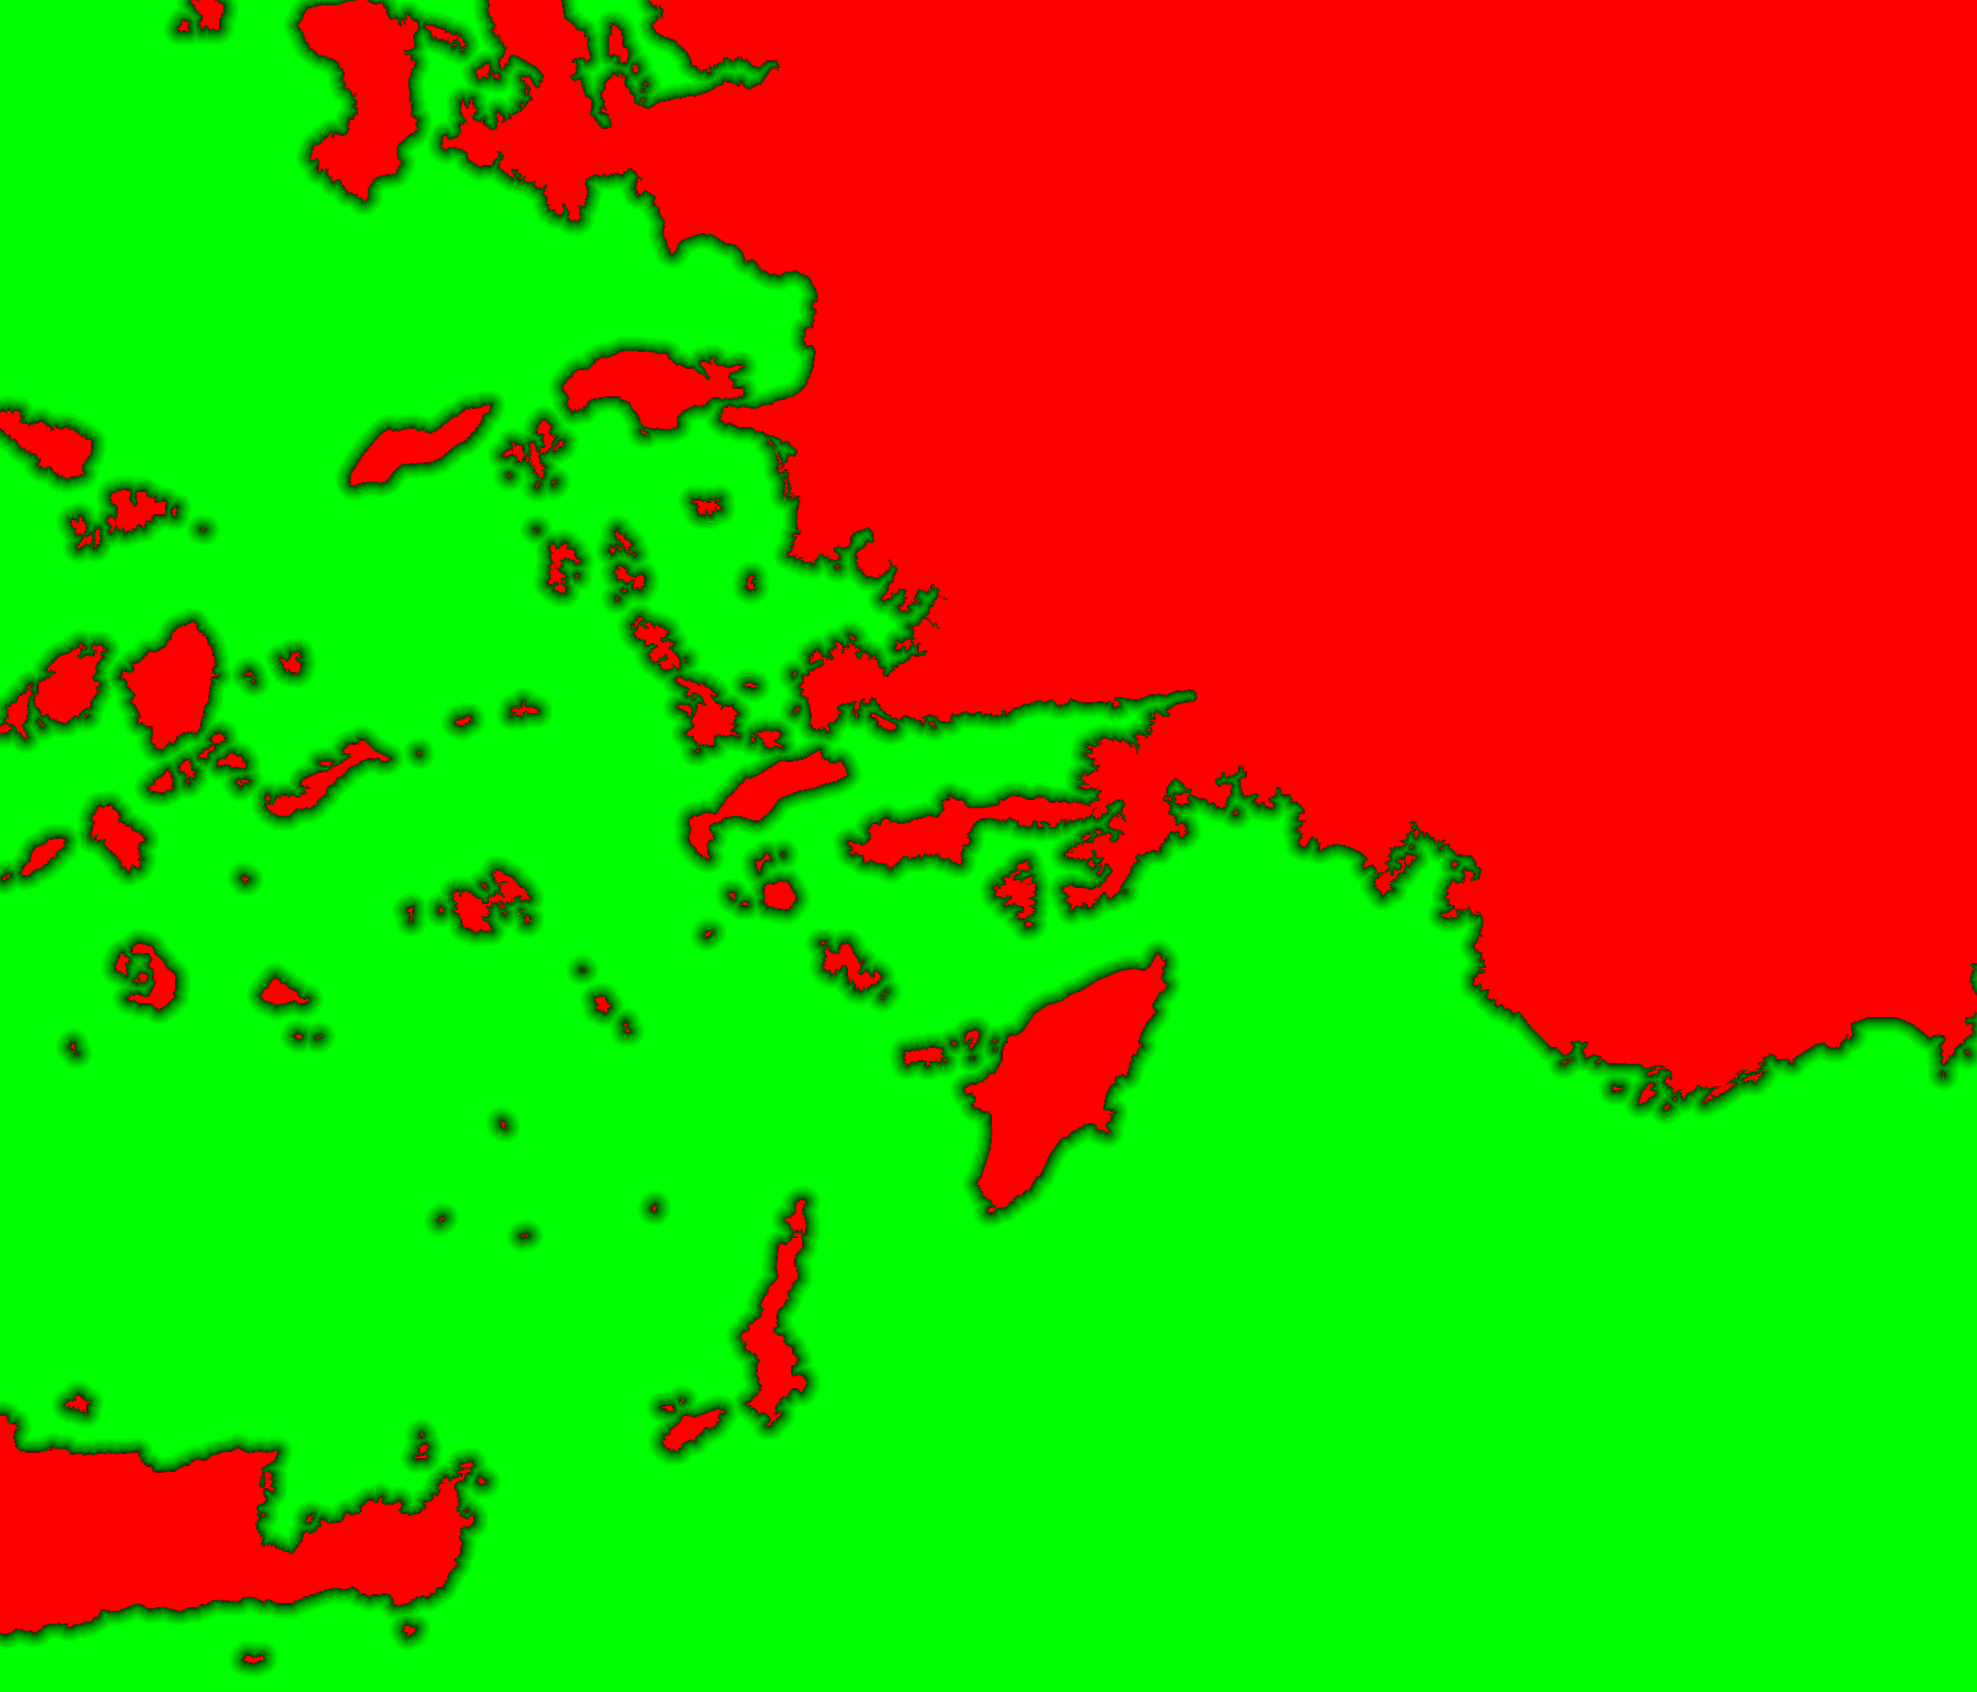
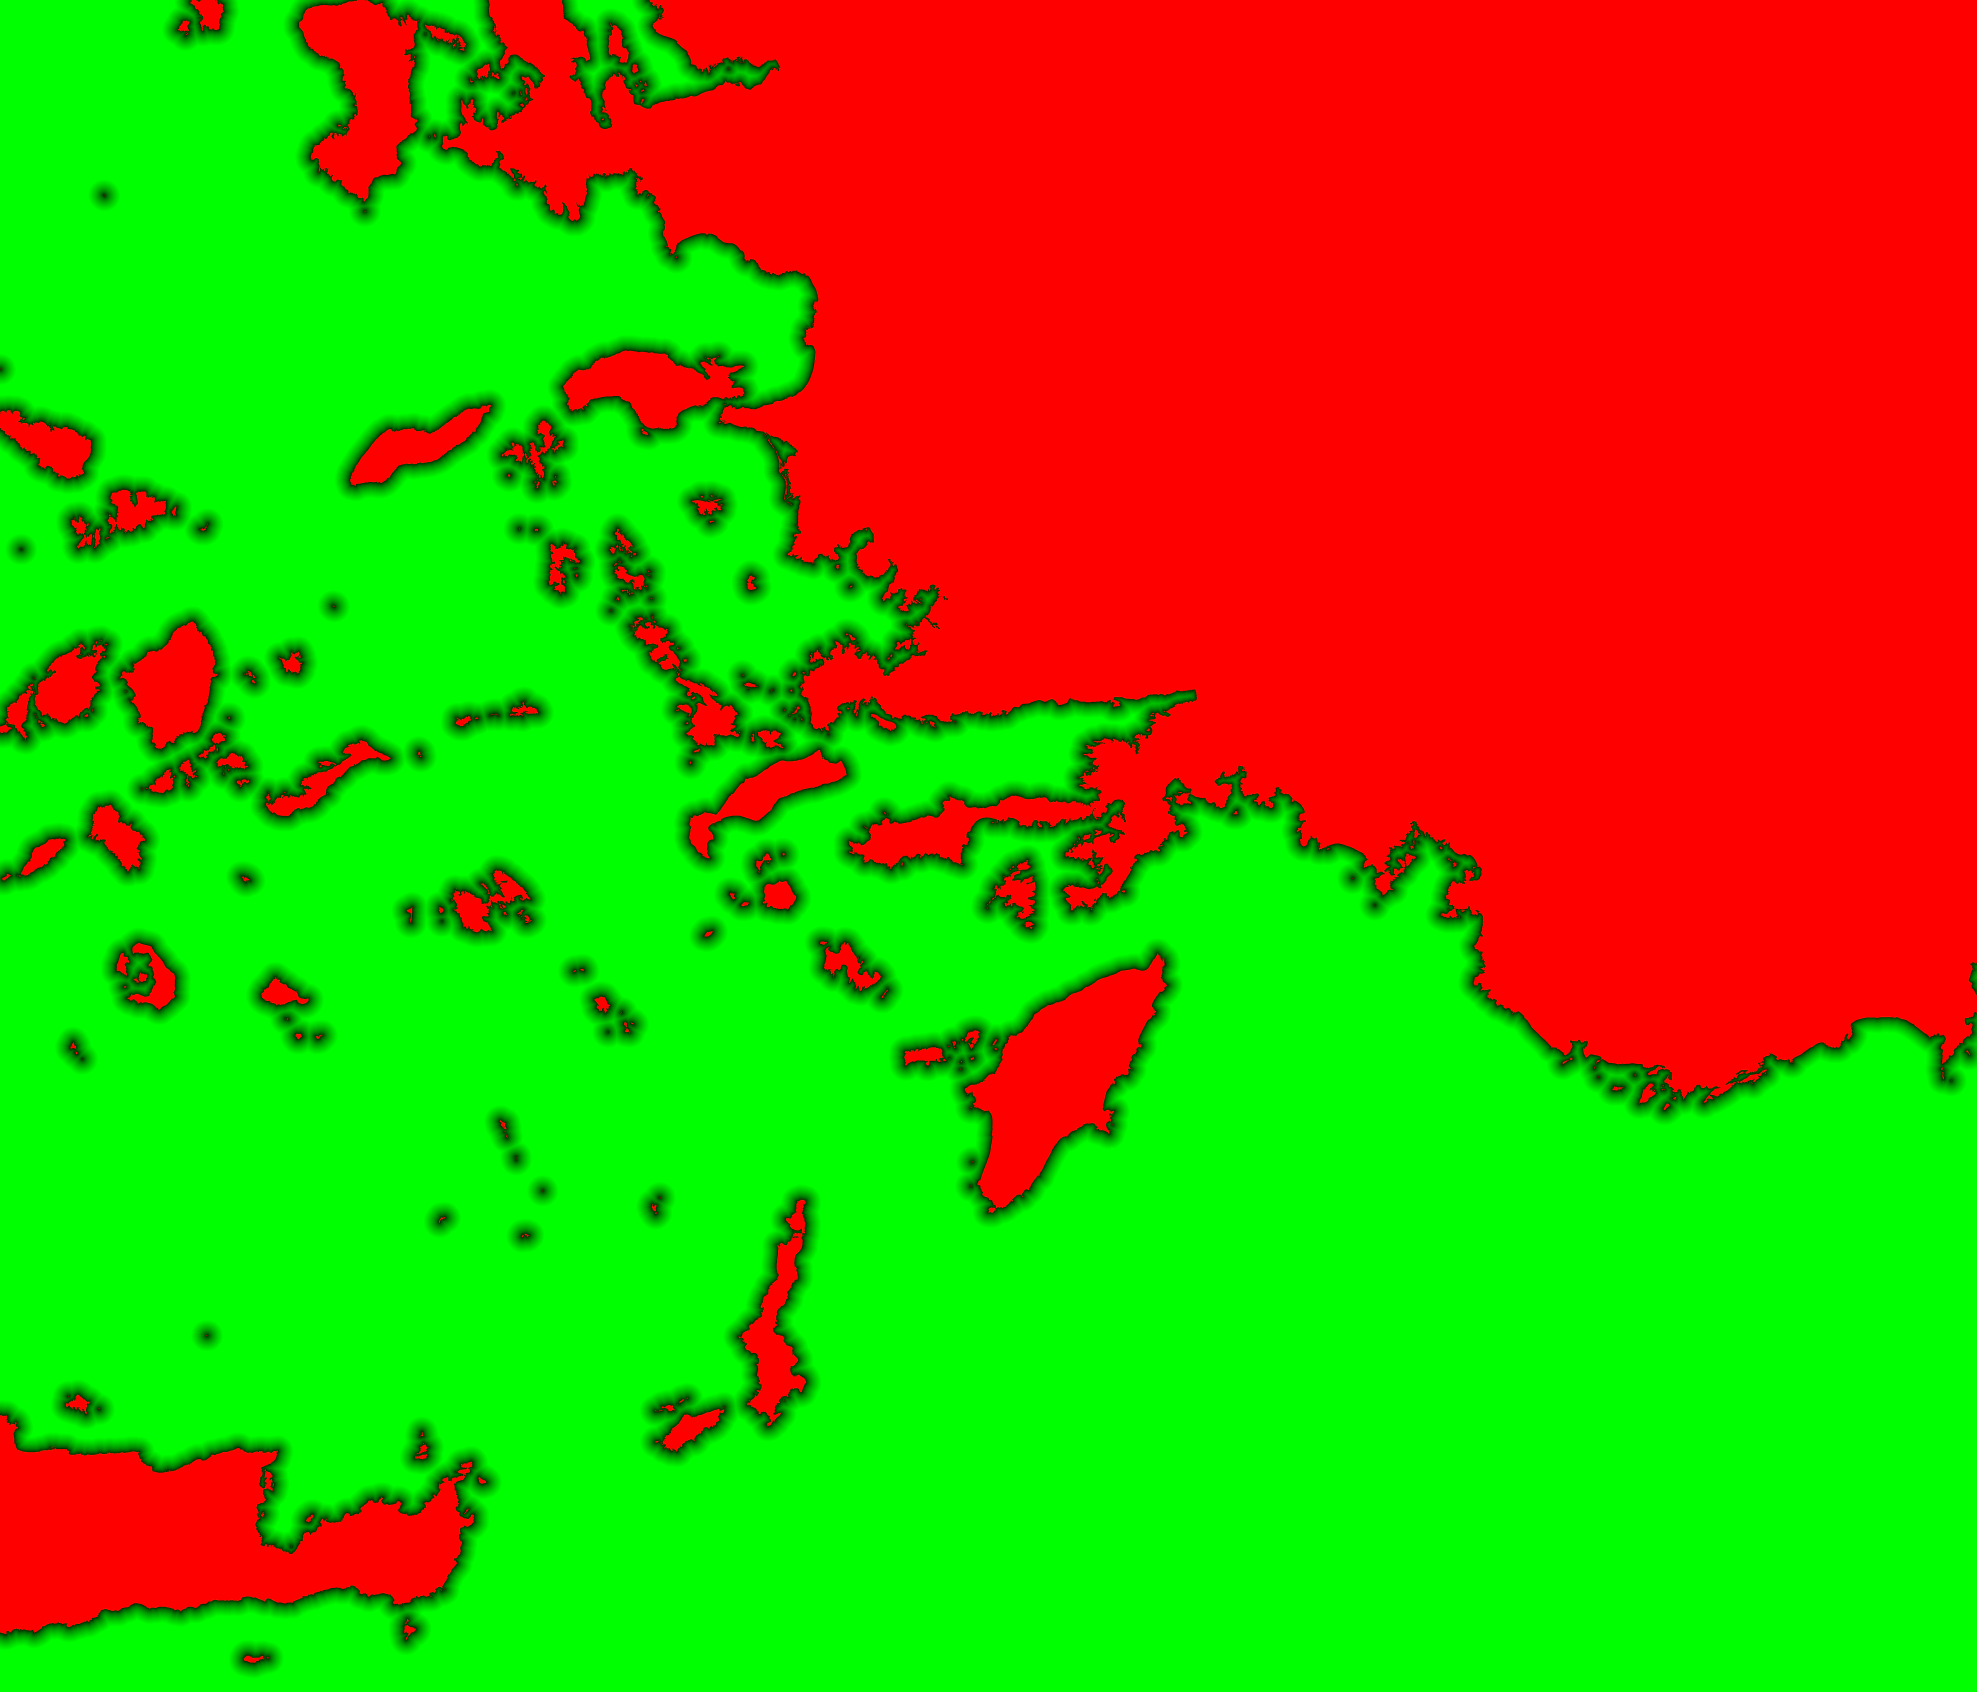
Mundi II: the eastern Aegean's coast at 120 m from OSM's full land polygons
The Aegean's land and sea are now decided by OSM's complete land polygons (not the simplified
ones), drawn anti-aliased at about 120 m into a 4096-wide mask, the widest texture every phone
takes (140 KB). The 250 m texture with the distance to land for the shelf is rebuilt from it.

Claude-Session: https://claude.ai/code/session_015y9JAWLouqFfDLSFkX3oNa

diff --git a/public/crusaders/welt2/index.html b/public/crusaders/welt2/index.html
@@ -209,10 +209,11 @@ function hRegion(x, z) {
 }
 const regLand = (x, z) => { const i = clamp(Math.floor(((x - RX0) / (RX1 - RX0)) * RMW), 0, RMW - 1), j = clamp(Math.floor(((z - RZ0) / (RZ1 - RZ0)) * RMH), 0, RMH - 1); return RMK[j * RMW + i] > 127; };
 async function loadRegion() {
-  const [hi, mi] = await Promise.all([loadImage("data/ost-hoehe.png"), loadImage("data/ost-kueste.png")]);
+  // ost-land: the coast at 120 m from OSM's full land polygons, the contract here; ost-kueste: at 250 m with the distance to land
+  const [hi, mi, li] = await Promise.all([loadImage("data/ost-hoehe.png"), loadImage("data/ost-kueste.png"), loadImage("data/ost-land.png")]);
   const read = (img) => { const c = document.createElement("canvas"); c.width = img.width; c.height = img.height; const x = c.getContext("2d"); x.drawImage(img, 0, 0); return x.getImageData(0, 0, img.width, img.height).data; };
   const hd = read(hi); RHW = hi.width; RHH = hi.height; RHM = new Float32Array(RHW * RHH); for (let i = 0; i < RHM.length; i++) RHM[i] = greyH(hd[i * 4]);
-  const md = read(mi); RMW = mi.width; RMH = mi.height; RMK = new Uint8Array(RMW * RMH); for (let i = 0; i < RMK.length; i++) RMK[i] = md[i * 4];
+  const md = read(li); RMW = li.width; RMH = li.height; RMK = new Uint8Array(RMW * RMH); for (let i = 0; i < RMK.length; i++) RMK[i] = md[i * 4];
   // normals for the shade, raised a little more than at Rhodes
   const [nc, nx, ni] = cv2d(RHW, RHH), dx = ((RX1 - RX0) / RHW) * 1000, dz = ((RZ1 - RZ0) / RHH) * 1000;
   for (let j = 0; j < RHH; j++) for (let i = 0; i < RHW; i++) {
@@ -222,7 +223,7 @@ async function loadRegion() {
   }
   nx.putImageData(ni, 0, 0);
   const tex = (img) => { const t = new THREE.Texture(img); t.needsUpdate = true; t.generateMipmaps = false; t.minFilter = t.magFilter = THREE.LinearFilter; return t; };
-  U.uRegH.value = tex(hi); U.uRegM.value = tex(mi); U.uRegN.value = ctex(nc); U.uRBox.value.set(RX0, RZ0, RX1 - RX0, RZ1 - RZ0);
+  U.uRegH.value = tex(hi); U.uRegM.value = tex(mi); U.uRegL.value = tex(li); U.uRegN.value = ctex(nc); U.uRBox.value.set(RX0, RZ0, RX1 - RX0, RZ1 - RZ0);
   const sat = await new THREE.TextureLoader().loadAsync("data/ost.jpg"); sat.anisotropy = 4; U.uRegSat.value = sat;
   regionMesh(); U.uRegOn.value = 1;
 }
@@ -325,7 +326,7 @@ const COMMON = `
   vec2 worldUv(vec2 p) { float lon = ${LON0.toFixed(4)} + p.x / ${(KM * KX).toFixed(4)}, lat = ${LAT0.toFixed(4)} - p.y / ${KM.toFixed(4)}; return vec2((lon + 180.0) / 360.0, (lat + 90.0) / 180.0); }
   // three levels of detail: Rhodes (0), the eastern Aegean (1), the world (2). At their seams they are mixed pixel by
   // pixel: over the last 10 km inside the Rhodes box, over the last 25 km inside the Aegean one
-  uniform float uWorldOn, uRegOn; uniform vec4 uRBox; uniform sampler2D uRegH, uRegM, uRegN, uRegSat;
+  uniform float uWorldOn, uRegOn; uniform vec4 uRBox; uniform sampler2D uRegH, uRegM, uRegL, uRegN, uRegSat;
   float edgeIn(vec2 p, vec4 b) { return min(min(p.x - b.x, b.x + b.z - p.x), min(p.y - b.y, b.y + b.w - p.y)); }
   float lod(vec2 p) {
     float inR = edgeIn(p, uBox);
@@ -502,7 +503,7 @@ const U = {
   uSun: { value: new THREE.Vector3(0, 1, 0) }, uSunCol: { value: new THREE.Color(1, 1, 1) }, uZen: { value: new THREE.Color() }, uHor: { value: new THREE.Color() }, uCam: { value: new THREE.Vector3() },
   uTime: { value: 0 }, uHaze: { value: 0.006 }, uCloudCov: { value: 0.38 }, uCloudH: { value: 4.8 }, uClouds: { value: 1 }, uSea: { value: 1 },
   uMask: { value: null }, uRelief: { value: null }, uNormal: { value: null }, uCloud: { value: null }, uDist: { value: null }, uSat: { value: null }, uGeo: { value: null }, uShadow: { value: null },
-  uLife: { value: 1 }, uWEx: { value: 1 }, uWorldOn: { value: 1 }, uRegOn: { value: 0 }, uRBox: { value: new THREE.Vector4() }, uRegH: { value: null }, uRegM: { value: null }, uRegN: { value: null }, uRegSat: { value: null }, uWorld: { value: null }, uWorldN: { value: null }, uWorldSat: { value: null }, uVeg: { value: 0 }, uHeat: { value: 0 }, uGrow: { value: 1 }, uLevel: { value: 0 }, uShadowK: { value: 1 }, uNear: { value: 0.1 },
+  uLife: { value: 1 }, uWEx: { value: 1 }, uWorldOn: { value: 1 }, uRegOn: { value: 0 }, uRBox: { value: new THREE.Vector4() }, uRegH: { value: null }, uRegM: { value: null }, uRegL: { value: null }, uRegN: { value: null }, uRegSat: { value: null }, uWorld: { value: null }, uWorldN: { value: null }, uWorldSat: { value: null }, uVeg: { value: 0 }, uHeat: { value: 0 }, uGrow: { value: 1 }, uLevel: { value: 0 }, uShadowK: { value: 1 }, uNear: { value: 0.1 },
   uBox: { value: new THREE.Vector4(W0, D0, WX, DZ) }, uCloudOff: { value: new THREE.Vector2() },
 };
 
@@ -667,7 +668,7 @@ function regionMesh() {
       vec2 ru = regUv(vP.xz); vec4 rm = texture2D(uRegM, ru); float h = regH(vP.xz);
       vec2 nn = texture2D(uRegN, ru).rg * 2.0 - 1.0; vec3 N = normalize(vec3(nn.x, sqrt(max(0.0, 1.0 - dot(nn, nn))), nn.y));
       float diff = max(dot(N, uSun), 0.0), sh = cloudShadow(vP); vec3 col;
-      if (rm.r > 0.5) {
+      if (texture2D(uRegL, ru).r > 0.5) {
         vec3 s0 = texture2D(uRegSat, ru).rgb, sat = pow(s0, vec3(2.2)) * 1.25;
         vec3 life = sat * (uSunCol * (0.3 + 0.9 * diff) * sh + uZen * 0.25);
         float lum = dot(s0, vec3(0.3, 0.55, 0.15));
@@ -765,7 +766,7 @@ function seaSurface() {
         if (inside > 0.5) { sd = shoreAt(uv); d = depthAt(uv, sd, vP.xz); }
         else if (lv < 1.5) {
           // the eastern Aegean: its OSM coast decides, a shelf grows from it, shoals as at Rhodes
-          vec4 rm = texture2D(uRegM, regUv(vP.xz)); if (rm.r > 0.5) discard;
+          vec4 rm = texture2D(uRegM, regUv(vP.xz)); if (texture2D(uRegL, regUv(vP.xz)).r > 0.5) discard;
           float hr = regH(vP.xz), dem = hr < -3.0 ? -hr : 4500.0; sd = rm.g * rm.g * 4000.0;
           // how steeply the land rises behind this shore: the highest ground within a kilometre and a half
           float e = 1.5, hl = max(max(regH(vP.xz + vec2(e, 0.0)), regH(vP.xz - vec2(e, 0.0))), max(regH(vP.xz + vec2(0.0, e)), regH(vP.xz - vec2(0.0, e))));
